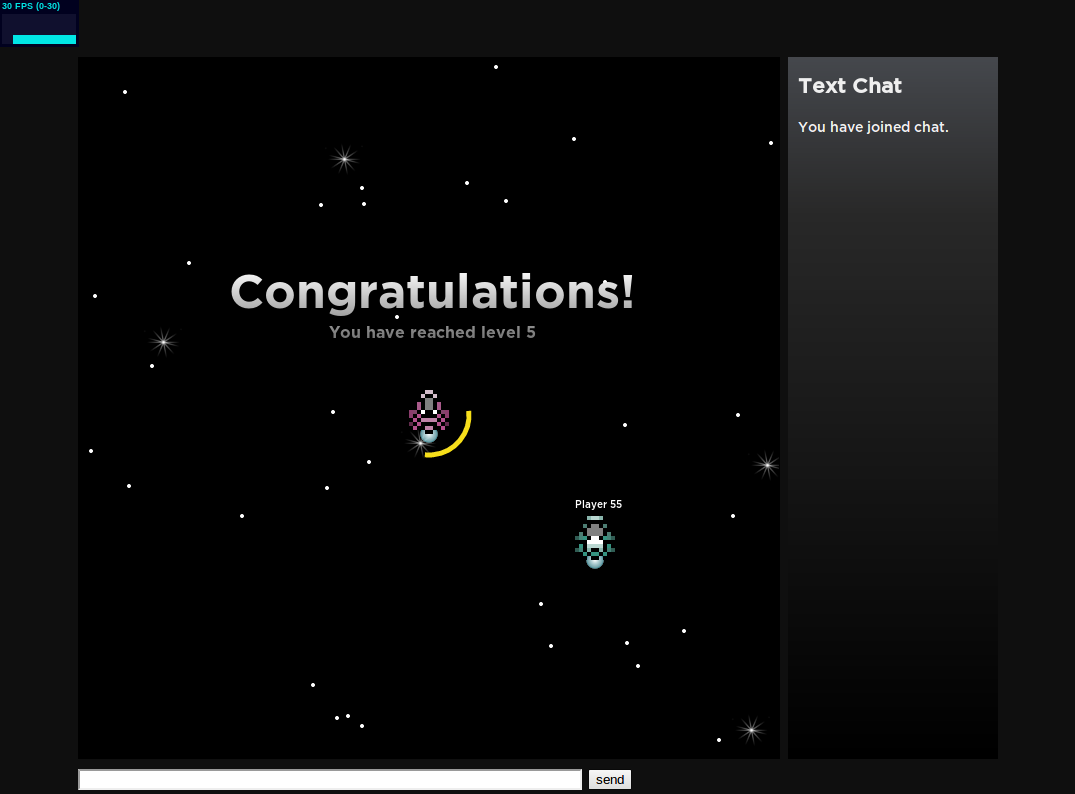
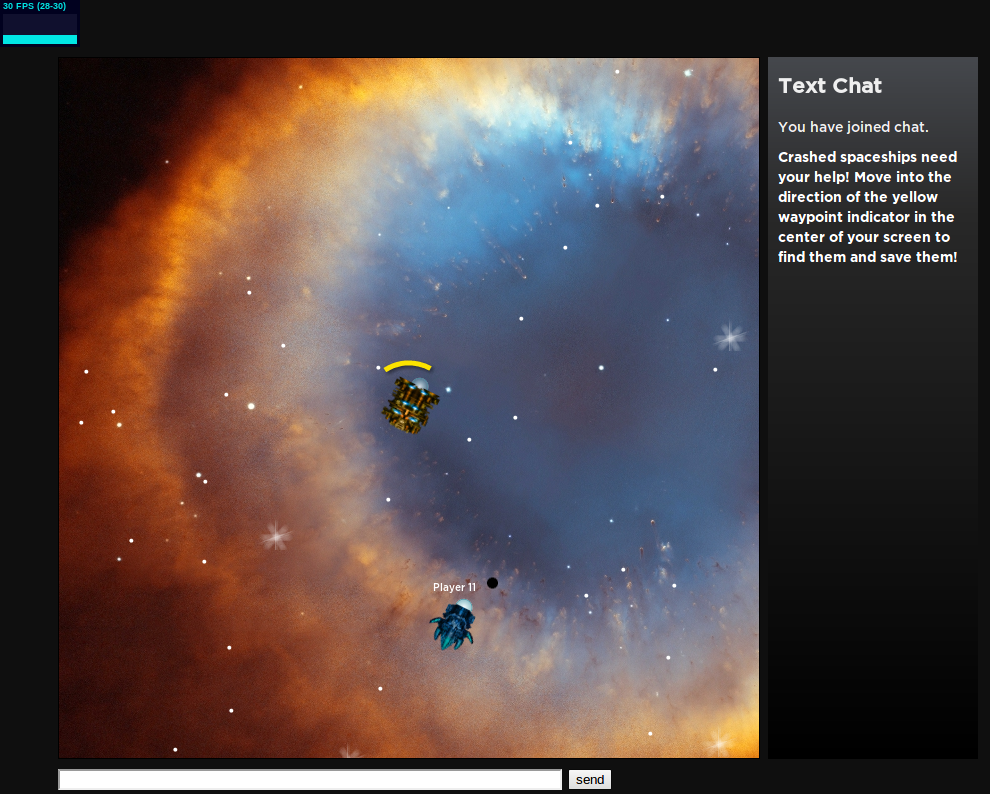
another evening of work-- other players rotation, background, new ship images

diff --git a/index.html b/index.html
@@ -24,7 +24,7 @@
 <script>
 var socket = io.connect('http://localhost');
 </script>
-<script src="drawships.js"></script>
+<script src="shipsdraw.js"></script>
 <script src="Stats.js"></script>
 <script>
 var myid = 0;
@@ -62,7 +62,7 @@ socket.on('chatmessageresponse', function (data) {
   $("#chatlist").append('<li>Player ' + data.id + ' said: ' + data.msg + '</li>');
   }
   else {
-  $("#chatlist").append('<li>' + data.msg + '</li>');
+  $("#chatlist").append('<li style="font-family:Gotham Bold;color:#fff;">' + data.msg + '</li>');
   }
   $("#chatlist").scrollTop($("#chatlist")[0].scrollHeight);
 });
@@ -77,6 +77,7 @@ socket.on('leveledup', function (data) {
   setTimeout( function() {leveledUp = false;}, 5000);
 });
 function game() {
+  initialize_ships();
   //fps counter next 2 lines
   var stats = new Stats();
   stats.setMode(0);
@@ -104,8 +105,8 @@ function game() {
   
   //prerender background image
   var b_canvas = document.createElement('canvas');
-  b_canvas.width = 1600;
-  b_canvas.height = 1200;
+  b_canvas.width = 2163;
+  b_canvas.height = 1756;
   var b_context = b_canvas.getContext('2d');
   var bimg = new Image();
   bimg.onload = function(){
@@ -138,65 +139,65 @@ function updateAll() {
   
 function drawAll(context, s_canvas, cw, ch, bgstars, b_canvas) {
   //these are needed because the 0,0 of the ship sprite is the upper left corner, not the center
-  var xadjust = cw/2 - 24;
-  var yadjust = ch/2 - 22;
+  var xadjust = cw/2;
+  var yadjust = ch/2;
   bgimgdraw(context, players[myid].x, players[myid].y, b_canvas);
   bgstarsdraw(context, players[myid].x, players[myid].y, cw, ch, bgstars);
   stars(context, s_canvas, players[myid].x, players[myid].y, cw, ch);
-  //draw other players-- this has to be changed so they are drawn in relation to the player's current position
+  
+  //draw other players
   for (var playerid in players) {
     if (players[playerid].x != null && playerid != myid) {
       drawPlayerName(context, players[playerid].x + xadjust - players[myid].x, players[playerid].y + yadjust - players[myid].y, playerid, players[playerid].ship);
       
-      drawPlayer(context, players[playerid].ship, players[playerid].x + xadjust - players[myid].x, players[playerid].y + yadjust - players[myid].y);
+      drawPlayer(context, players[playerid].ship, players[playerid].x + xadjust - players[myid].x, players[playerid].y + yadjust - players[myid].y, players[playerid].a, false);
     }
   }
   //draw the player in the middle of the screen
-  //drawPlayer(context, players[myid].ship, xadjust, yadjust);
   drawPlayer(context, players[myid].ship, 0, 0, players[myid].a, true);
   drawWaypoint(context, players[myid].ship, players[myid].x, players[myid].y, cw, ch);
   drawLevelUp(context, cw, ch);
 }
 
 function stars(ctx, s_canvas, px, py, cw, ch) {
-        for (var i in starlist) {
-          var x = starlist[i][0];
-          var y = starlist[i][1];
-          //check if star would be within view field
-          if (Math.abs(px - x) < cw/2 + 39 && Math.abs(py - y) < ch/2 + 39){
-            //transform coords from world coordinate system to pixel coordinate system
-            x = x + (cw/2);
-            y = y + (ch/2);
-            //old code makes a circle, new code draws pre-rendered image
-            //ctx.arc(x - px, y - py, 6, 0, Math.PI * 2, true);
-            ctx.drawImage(s_canvas,x - px, y - py);
-        }
-        }
+  for (var i in starlist) {
+    var x = starlist[i][0];
+    var y = starlist[i][1];
+    //check if star would be within view field
+    if (Math.abs(px - x) < cw/2 + 39 && Math.abs(py - y) < ch/2 + 39){
+        //transform coords from world coordinate system to pixel coordinate system
+        x = x + (cw/2);
+        y = y + (ch/2);
+        //old code makes a circle, new code draws pre-rendered image
+        //ctx.arc(x - px, y - py, 6, 0, Math.PI * 2, true);
+        ctx.drawImage(s_canvas,x - px, y - py);
+    }
+  }
 }
 
 function bgstarsdraw(ctx, px, py, cw, ch, starlist) {
-        for (var i in starlist) {
-          var x = starlist[i][0];
-          var y = starlist[i][1];
-          // Make the stars white
-          ctx.fillStyle = "white";
-        //check if star would be within view field
-        if (Math.abs(px/1.5 - x) < cw/2 + 5 && Math.abs(py/1.5 - y) < ch/2 + 5){
-          //transform coords from world coordinate system to pixel coordinate system
-          x = x + (cw/2);
-          y = y + (ch/2);
-          ctx.beginPath();
-          //draw circle
-          ctx.arc(x - px/1.5, y - py/1.5, 2, 0, Math.PI * 2, true);
-          ctx.closePath();
-          ctx.fill();
-        }
-        }
+  for (var i in starlist) {
+    var x = starlist[i][0];
+    var y = starlist[i][1];
+    // Make the stars white
+    ctx.fillStyle = "white";
+    //check if star would be within view field
+    if (Math.abs(px/1.5 - x) < cw/2 + 5 && Math.abs(py/1.5 - y) < ch/2 + 5){
+      //transform coords from world coordinate system to pixel coordinate system
+      x = x + (cw/2);
+      y = y + (ch/2);
+      ctx.beginPath();
+      //draw circle
+      ctx.arc(x - px/1.5, y - py/1.5, 2, 0, Math.PI * 2, true);
+      ctx.closePath();
+      ctx.fill();
+    }
+  }
 }
 
 function bgimgdraw(ctx, px, py, b_canvas) {
-          //old code makes a circle, new code draws pre-rendered image
-          ctx.drawImage(b_canvas,-300 - px/100,-300 - py/100);
+  //draw pre-rendered hubble image          
+  ctx.drawImage(b_canvas,-400 - px/60,-400 - py/60);
 }
 
 function drawPlayer(ctx, ship, x, y, a, center) {
@@ -204,7 +205,7 @@ function drawPlayer(ctx, ship, x, y, a, center) {
     ship1draw(ctx,x,y,a,center);
   }
   else if (ship == 2) {
-    ship2draw(ctx,x,y);
+    ship2draw(ctx,x,y,a,center);
   }
 }
 
@@ -212,10 +213,10 @@ function drawPlayerName(ctx, x, y, id, ship) {
     var string = "Player " + id;
     ctx.font = '10px Gotham Medium'
     if (ship == 1){
-      ctx.fillText(string, x+4, y-4);
+      ctx.fillText(string, x-20, y-38);
     }
     else if (ship == 2) {
-      ctx.fillText(string, x+2, y-3);
+      ctx.fillText(string, x-20, y-38);
     }
 }
 function drawWaypoint(ctx, ship, x, y, cw, ch) {

diff --git a/app.js b/app.js
@@ -57,9 +57,8 @@ io.sockets.on('connection', function (socket) {
       yvel = 0,
       xacc = 0,
       yacc = 0,
-      waypoint = {x:500, y:500, xp:5};
+      waypoint = {x:0, y:0, xp:0, msg:'Crashed spaceships need your help! Move into the direction of the yellow waypoint indicator in the center of your screen to find them and save them!'};
   var spaceship_style = Math.floor(Math.random()*(2)+1);
-  spaceship_style = 1;
   
   //set up the new player
   socket.emit('newstart', { id: clientid, slist:bigstarlist, ship: spaceship_style, x: worldx, y: worldy, wp:waypoint, xp: 0, level: 1, currentplayers: players});
@@ -121,10 +120,15 @@ io.sockets.on('connection', function (socket) {
     update(players[data.id].id);
   });
   var waypointUpdate = function(id, wpDistance) {
-    //WAYPOINT calculations
+    //waypoint calculations
     if(Math.abs(players[id].x-players[id].wp.x) < wpDistance && Math.abs(players[id].y-players[id].wp.y) < wpDistance){
       currentw = players[id].wp;
+      //add xp
       players[id].xp += currentw.xp;
+      if (currentw.hasOwnProperty("msg")){
+        socket.emit('chatmessageresponse', {playermsg:false, id:null, msg: currentw.msg});
+      }
+      //figure out level stuff
       var newLevel = calculateLevel(players[id].xp);
       if (newLevel > players[id].level) {
         //set new level, emit level up event

diff --git a/public/stylesheets/style.css b/public/stylesheets/style.css
@@ -41,6 +41,7 @@ ul#chatlist {
 }
 ul#chatlist li {
   width:200px;
+  margin:10px 0 10px 0;
 }
 form#chat {
   width:920px;

diff --git a/readme.md b/readme.md
@@ -13,15 +13,15 @@ Idea for gameplay: you are a lifeboat. save people in space. You have to go arou
 TODO
 ----
 
-Make other players ships rotate ~~Rotate ships according to either their velocities or their acceleration (will probably be better to do a, but maybe harder?);~~
-
-~~fix art assets that need transparent backgrounds~~
-
 Attach a random message for flavor to each waypoint that is shown upon completion.
 
 Make rendering independent of game logic- right now it updates only when it receieves the request. Have it update anyways, and only provide rendering information on request. Goes hand in hand with: Switch out a single array for data and rendering for two arrays- one that has complete data (or an object) and an array that is modified every time someone disconnects or connects that has easy rendering data in a way that is fast to iterate through.
 
 Add more ships with different movement speeds and levels, maybe make the player get different ships once they level.
+
+~~Make other players ships rotate -- Rotate ships according to either their velocities or their acceleration (will probably be better to do a, but maybe harder?);~~
+
+~~fix art assets that need transparent backgrounds~~
 
 ~~Make something cool happen after the boundaries- either deep space message, trigger a new environment, or teleport all the way across the map, or something.~~
 
